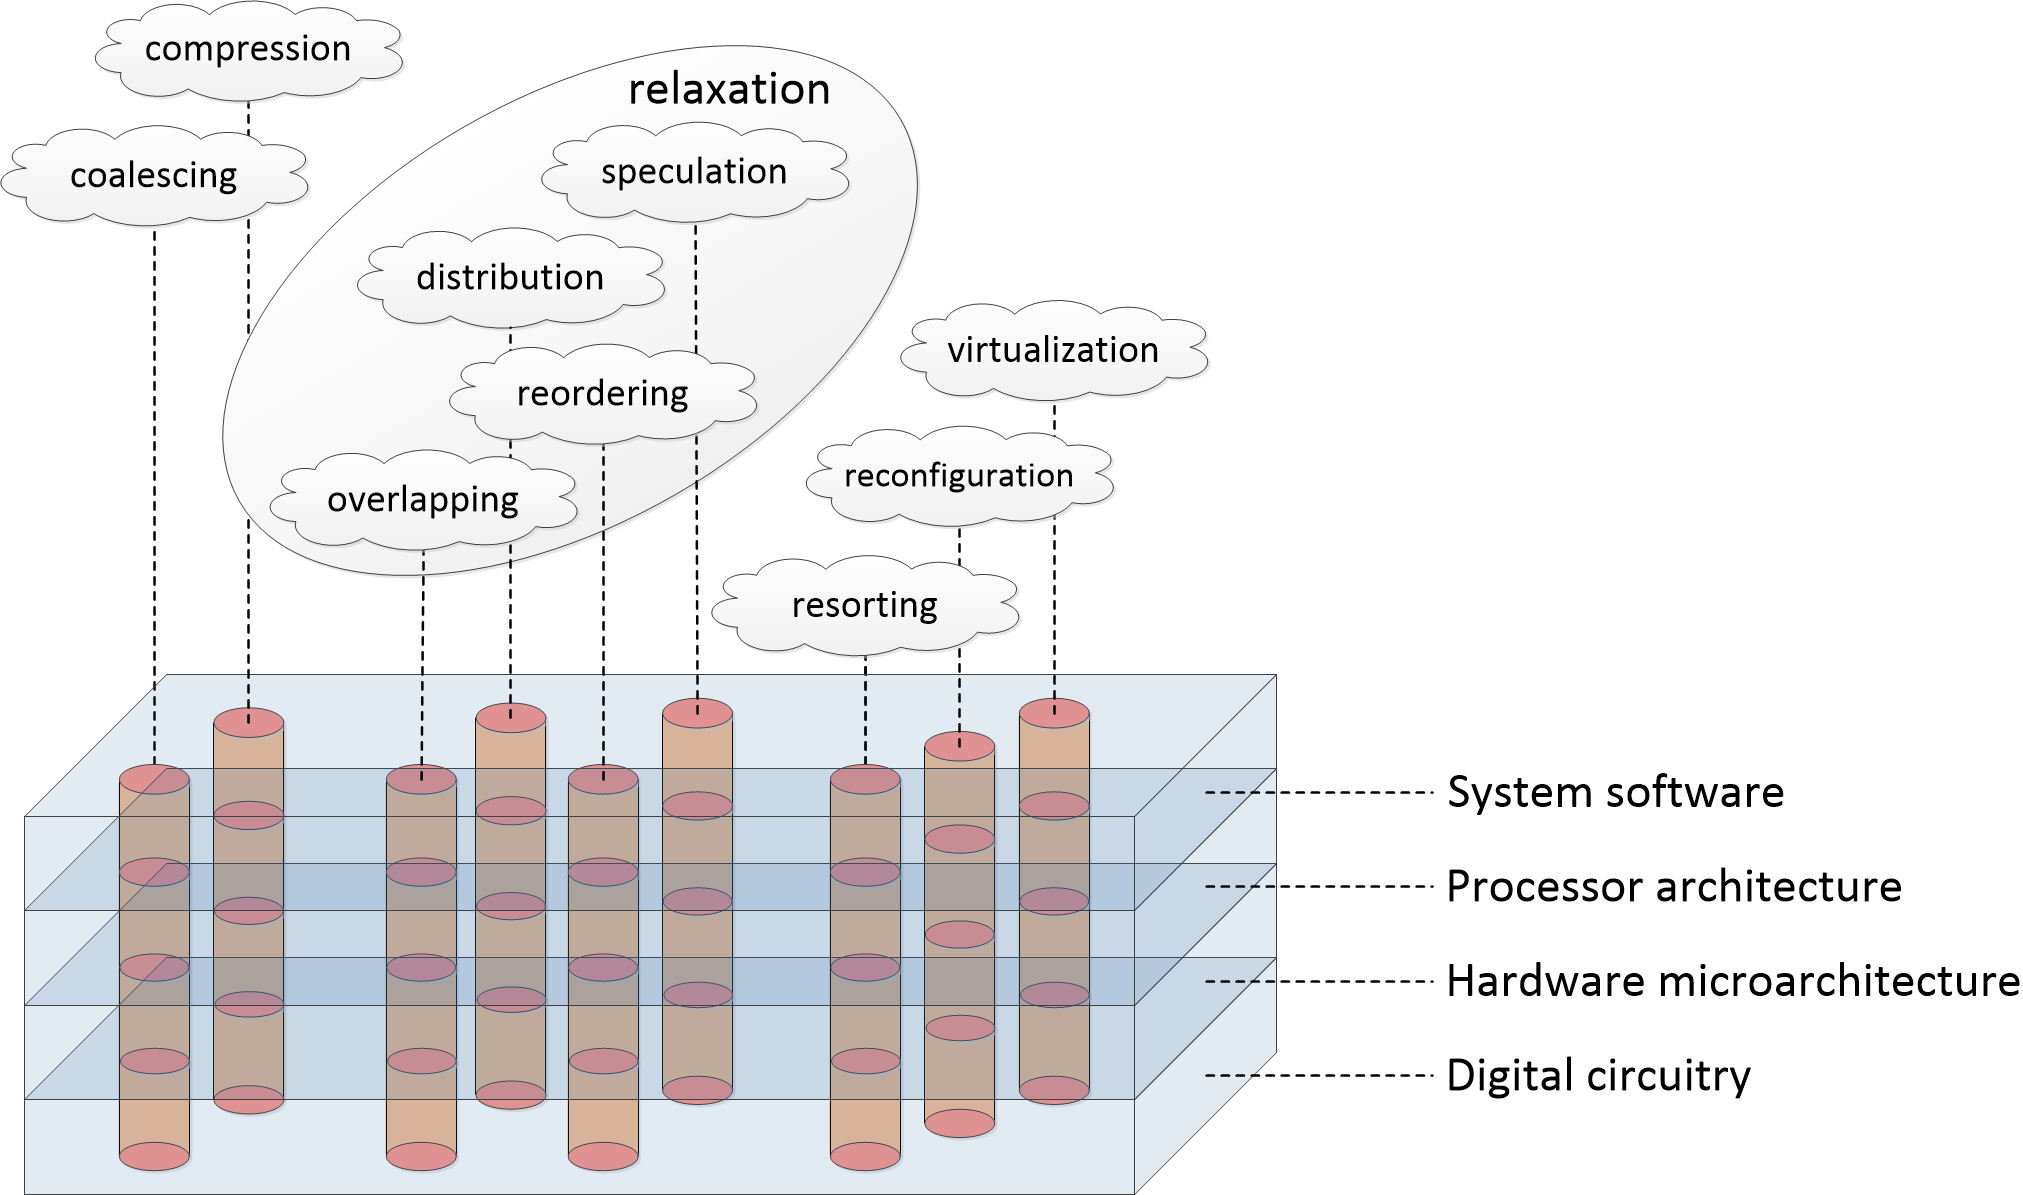
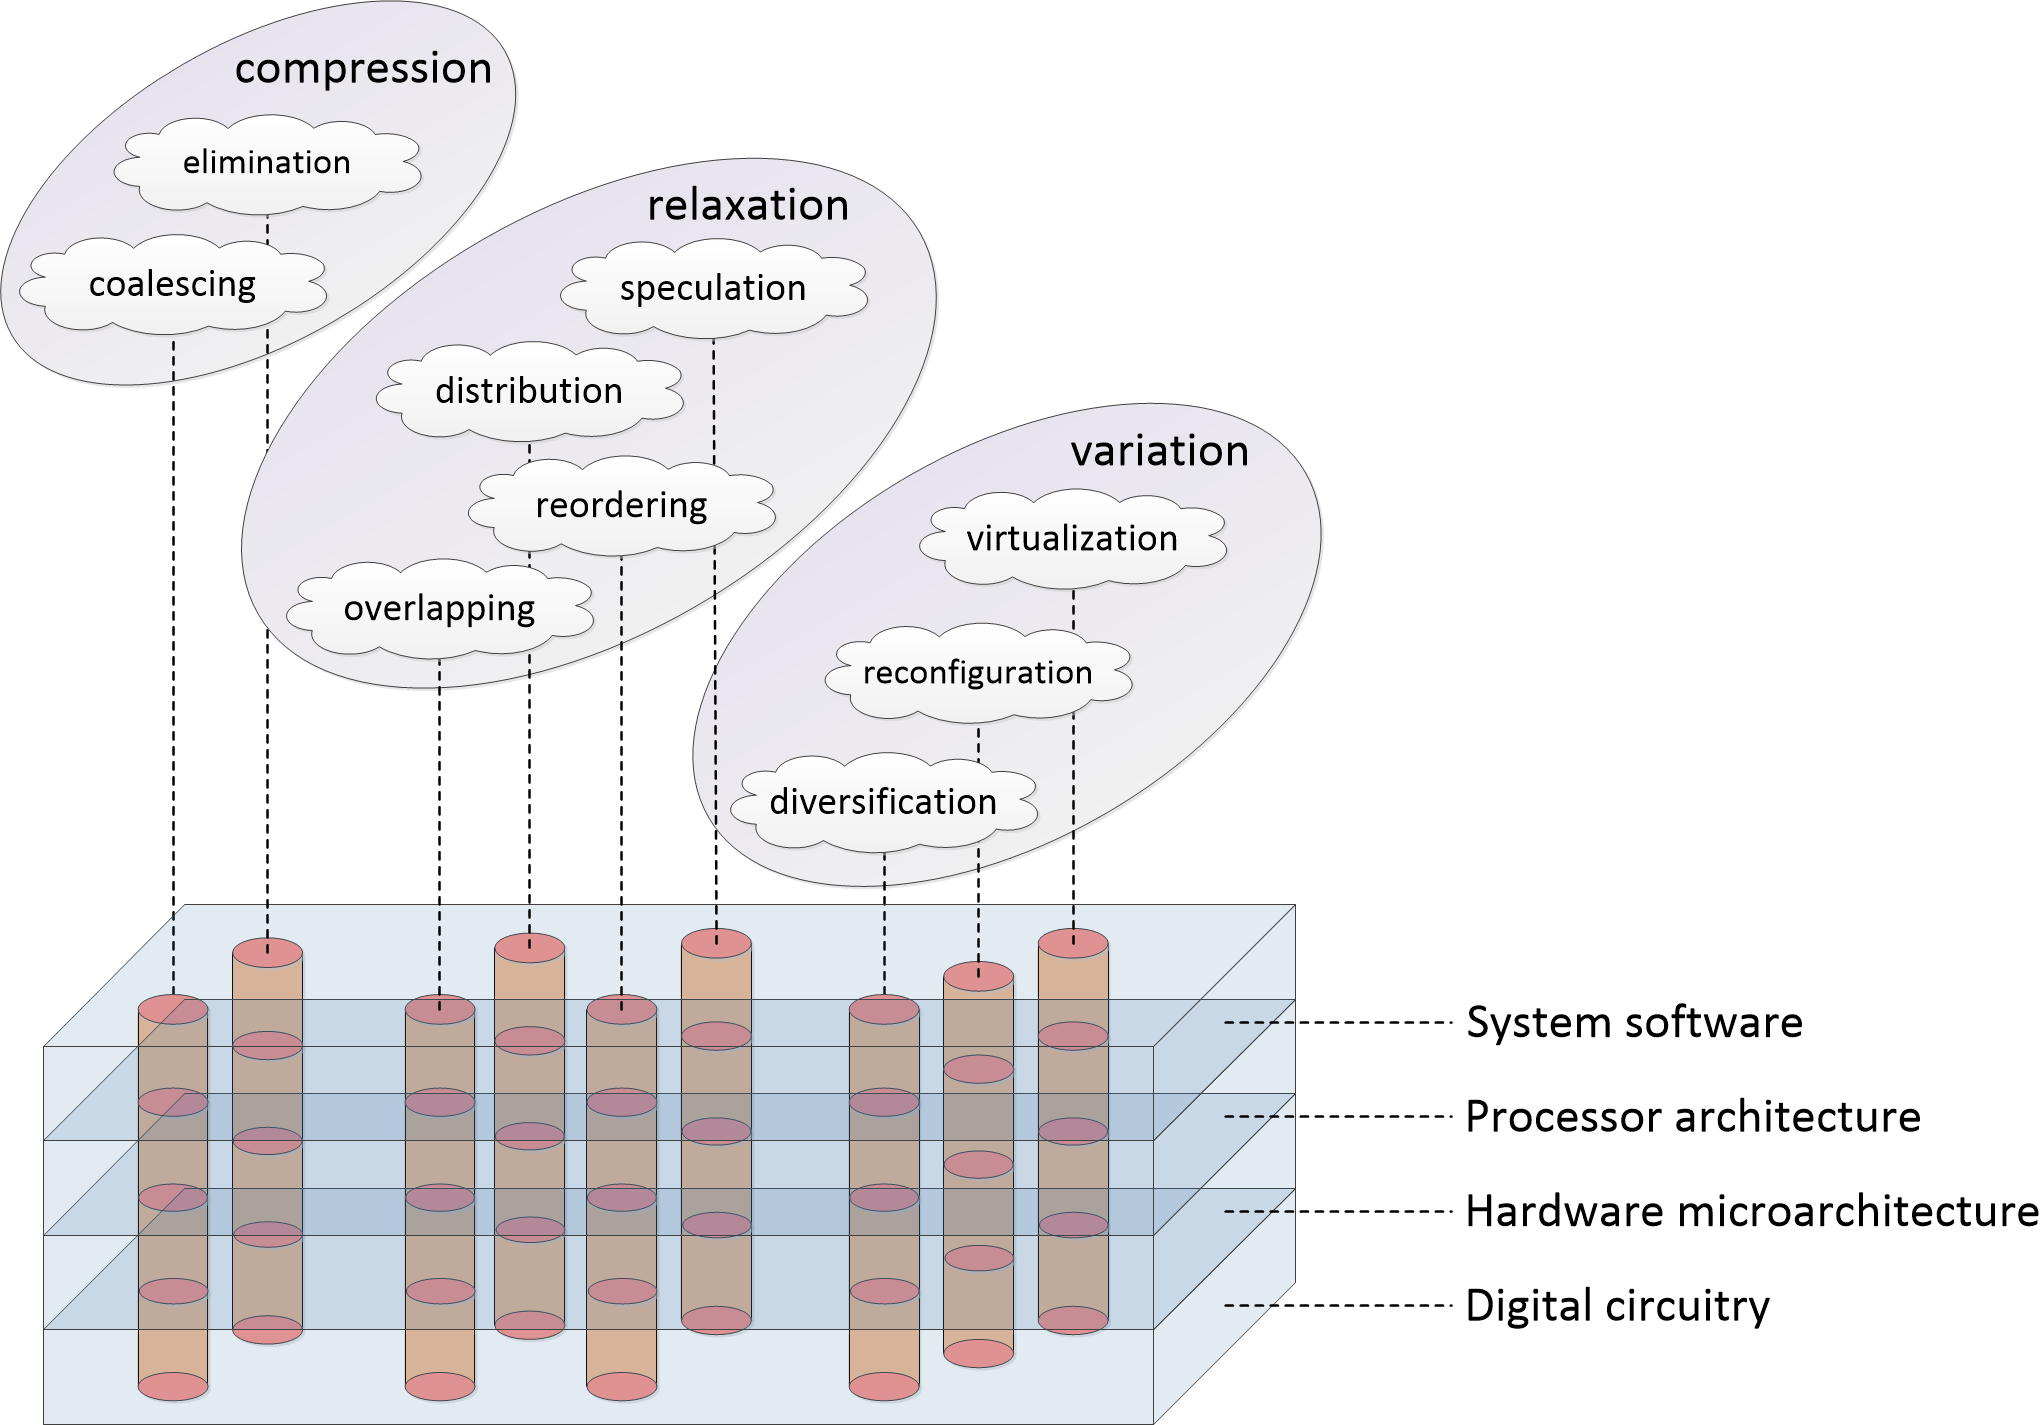
Classification update

Changed region(s): [[0.0, 0.0, 0.6851, 1.0], [0.7163, 0.7121, 1.0, 0.9289], [0.7163, 0.6502, 0.9031, 0.6812]]

diff --git a/README.md b/README.md
@@ -24,24 +24,23 @@ SCPS formulations:
 	* **reordering** – changeability of requests prioritization, forwarded/deferred execution;
 	* **speculation** – performing (possibly redundant) computations in advance in the interest of latency reduction;
 
-* **coalescing** – increasing granularity of workload elements to decrease management overhead;
+* **compression** – reduction of workload processing cost
+	* **coalescing** – increasing granularity of workload elements to decrease management overhead;
+	* **elimination** – detection and removal of redundant computations;
 
-* **compression** – detection and removal of redundant computations;
+* **variation** – introduction and handling variability of workload elements. Contains three subcategories:
+	* **diversification** – sorting workload elements in categories based on various properties (spatial, parametric, functional) that affect their execution;
+	* **reconfiguration** – introduction of changeability of system parameters and internal mechanisms, allocation of common “hard” substrate for diverse “soft” workload elements;
+	* **virtualization** – allocation of new management overlays that selectively abstract chosen mechanisms for their interoperable application.
 
-* **resorting** – re-grouping workload elements in unified or specialized categories based on their functional and non-functional properties that affect their execution;
-
-* **reconfiguration** – introduction of changeability of system parameters and internal mechanisms, allocation of common “hard” substrate for diverse “soft” workload elements;
-
-* **virtualization** – allocation of new management overlays that selectively abstract chosen mechanisms for their interoperable application.
-
-Performance optimization mechanisms:
+Examples of performance optimization mechanisms grouped in SCPS categories:
 
 Computer architecture levels | Relaxation (overlapping)
 ---------------------------- | ------------------------
 System software (web middleware) | Asynchronous web services, event loop (non-blocking I/O)
 System software (graphics) | Pipelined rendering
 System software (DBMS) | Concurrency control protocols, DSMSs
-System software (OS) | OS pipes, OS multitasking, spooling, asynchronous I/O
+System software (OS, drivers) | OS pipes, OS multitasking, spooling, asynchronous I/O
 System software (compilers and runtimes) | Software pipelining, asynchronous programming environments
 Processor architecture | Delay slots, software-based pipeline hazard resolution, rotating register files
 Hardware microarchitecture (processing) | Pipelined processing of instructions
@@ -54,7 +53,7 @@ Computer architecture levels | Relaxation (distribution)
 System software (web middleware) | Multi-server setups, parallel HTTP requests, content delivery networks, MapReduce model
 System software (graphics) | Space partitioning, mesh decomposition
 System software (DBMS) | Database partitioning, replication/sharding
-System software (OS) | OS multithreading
+System software (OS, drivers) | OS multithreading
 System software (compilers and runtimes) | Parallel programming environments, work sharing/stealing, coroutines, static parallelization, loop fission
 Processor architecture | Multi/many-core architectures, simultaneous multithreading, multi-channel DMA
 Hardware microarchitecture (processing) | Superscalar processing of instructions
@@ -67,7 +66,7 @@ Computer architecture levels | Relaxation (reordering)
 System software (web middleware) | Lazy connections/loading
 System software (graphics) | Mesh vertices reordering, out-of-order rasterization, forwarded/deferred rendering
 System software (DBMS) | Prioritized resource scheduling, query reordering
-System software (OS) | Thread priority scheduling, I/O requests sorting
+System software (OS, drivers) | Thread priority scheduling, I/O requests sorting
 System software (compilers and runtimes) | Lazy evaluation, code motion optimizations, loop unrolling, loop tiling
 Processor architecture | Dataflow architectures, relaxed memory models
 Hardware microarchitecture (processing) | Out-of-order processing of instructions, Tomasulo scheduling algorithm
@@ -80,7 +79,7 @@ Computer architecture levels | Relaxation (speculation)
 System software (web middleware) | Link prefetching, preloading, prebrowsing, web caching
 System software (graphics) | Texture caching
 System software (DBMS) | Speculative query execution
-System software (OS) | Storage data prefetching
+System software (OS, drivers) | Storage data prefetching
 System software (compilers and runtimes) | Thread-level speculation, software transactional memory, speculative predicates
 Processor architecture | Hardware transactional memory
 Hardware microarchitecture (processing) | Computational caches, branch prediction/predication, return address stack, memory requests prediction, register/memory value prediction
@@ -88,12 +87,12 @@ Hardware microarchitecture (communication) | Speculative propagation and stompin
 Hardware microarchitecture (memory) | Prefetching to data caches and stream buffers, locality in caching policies
 Digital circuitry | Multiplexing multiple pre-computed results
 
-Computer architecture levels | Coalescing
----------------------------- | ----------
+Computer architecture levels | Compression (coalescing)
+---------------------------- | ------------------------
 System software (web middleware) | HTTP requests merging, media content buffering
 System software (graphics) | GPU thread coarsening
 System software (DBMS) | Data clustering
-System software (OS) | Increased OS scheduling time quantum, I/O requests coalescing, batch processing, scatter/gather I/O, file defragmentation
+System software (OS, drivers) | Increased OS scheduling time quantum, I/O requests coalescing, batch processing, scatter/gather I/O, file defragmentation
 System software (compilers and runtimes) | Instruction combining, loop fusion, heap defragmentation
 Processor architecture | CPU clustering, SIMD, VLIW architectures, FMA instructions, interrupt coalescing
 Hardware microarchitecture (processing) | Instruction fusion
@@ -101,12 +100,12 @@ Hardware microarchitecture (communication) | Enlarged packets, burst transfers
 Hardware microarchitecture (memory) | Memory requests coalescing
 Digital circuitry | Wide functional units, operation clustering (chaining) in HLS, high number input LUT in FPGAs
 
-Computer architecture levels | Compression
----------------------------- | -----------
+Computer architecture levels | Compression (elimination)
+---------------------------- | -------------------------
 System software (web middleware) | HTTP compression, web media compression
 System software (graphics) | Polygon clipping/culling, LODing, texture compression, tiled rendering
 System software (DBMS) | Data indexing, denormalization, recycling of intermediate results
-System software (OS) | Context switch minimization, zero-copy data transfers, file compression, memory balooning
+System software (OS, drivers) | Context switch minimization, zero-copy data transfers, file compression, memory balooning
 System software (compilers and runtimes) | Constant folding/propagation, dead code elimination, computation reuse, register recycling/reuse, common subexpression elimination, register promotion, strength reduction, floating- to fixed-point conversion, neural network pruning/quantization
 Processor architecture | Compressed (with increased code density) ISA
 Hardware microarchitecture (processing) | Dynamic instruction reuse, interrupt tail-chaining
@@ -114,12 +113,12 @@ Hardware microarchitecture (communication) | NoC traffic compression
 Hardware microarchitecture (memory) | Hardware data compression, caching exclusivity
 Digital circuitry | Bitwidth narrowing, register merging, logic minimization, dead/duplicated logic removal, redundant reset elimination, power/clock gating
 
-Computer architecture levels | Resorting
----------------------------- | ---------
+Computer architecture levels | Variation (diversification)
+---------------------------- | ---------------------------
 System software (web middleware) | Internet media types
 System software (graphics) | Shader types
 System software (DBMS) | Query prioritization
-System software (OS) | Asymmetric multiprocessing environments, priority classes, privilege levels
+System software (OS, drivers) | Asymmetric multiprocessing environments, priority classes, privilege levels
 System software (compilers and runtimes) | Task partitioning for heterogeneous platforms, instruction replacement, (un)likely attributes
 Processor architecture | ISA extensions, asymmetric multiprocessors, interrupt priority levels, cache partitioning
 Hardware microarchitecture (processing) | Pipeline stages, heterogeneous pipelines and functional units
@@ -127,12 +126,12 @@ Hardware microarchitecture (communication) | Heterogeneous networks, QoS traffic
 Hardware microarchitecture (memory) | Memory hierarchy, NUMA
 Digital circuitry | FPGA hard macro blocks, clock/data networks
 
-Computer architecture levels | Reconfiguration
----------------------------- | ---------------
+Computer architecture levels | Variation (reconfiguration)
+---------------------------- | ---------------------------
 System software (web middleware) | Microservices continuous delivery
 System software (graphics) | Shader programmability
 System software (DBMS) | Performance tuning options
-System software (OS) | Microkernel architecture, process priorities reconfiguration
+System software (OS, drivers) | Microkernel architecture, process priorities reconfiguration
 System software (compilers and runtimes) | Neural network learning, compiler optimization flags
 Processor architecture | Processors’ programmability, switchable ISAs, modes of execution, customizable memory models
 Hardware microarchitecture (processing) | Microprogrammable processors, CGRAs, conservation cores, branch predictor adaptation
@@ -140,12 +139,12 @@ Hardware microarchitecture (communication) | Reconfigurable NoC topologies, soft
 Hardware microarchitecture (memory) | Cache mapping adaptation
 Digital circuitry | FPGA LUTs, DVFS, reconfigurable macro blocks, back-annotated synthesis, synthesis/implementation constraints
 
-Computer architecture levels | Virtualization
----------------------------- | --------------
+Computer architecture levels | Variation (virtualization)
+---------------------------- | --------------------------
 System software (web middleware) | Application protocols, cloud services
 System software (graphics) | Standardized graphics APIs, unified shader model
 System software (DBMS) | Database virtualization, common query languages
-System software (OS) | OS containers, platform emulation
+System software (OS, drivers) | OS containers, platform emulation
 System software (compilers and runtimes) | Managed programming environments, multi-stage compilation
 Processor architecture | Hardware CPU virtualization, FPGA temporal partitioning, virtual forwarding/routing, virtual memory
 Hardware microarchitecture (processing) | Dynamic binary translation, composed multicores, thread warping
